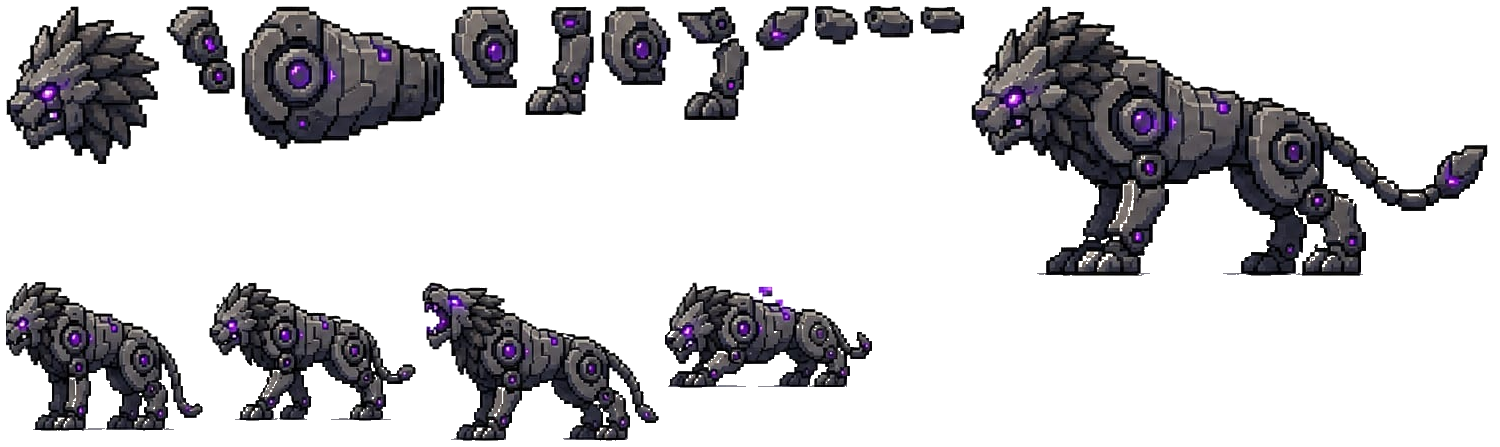
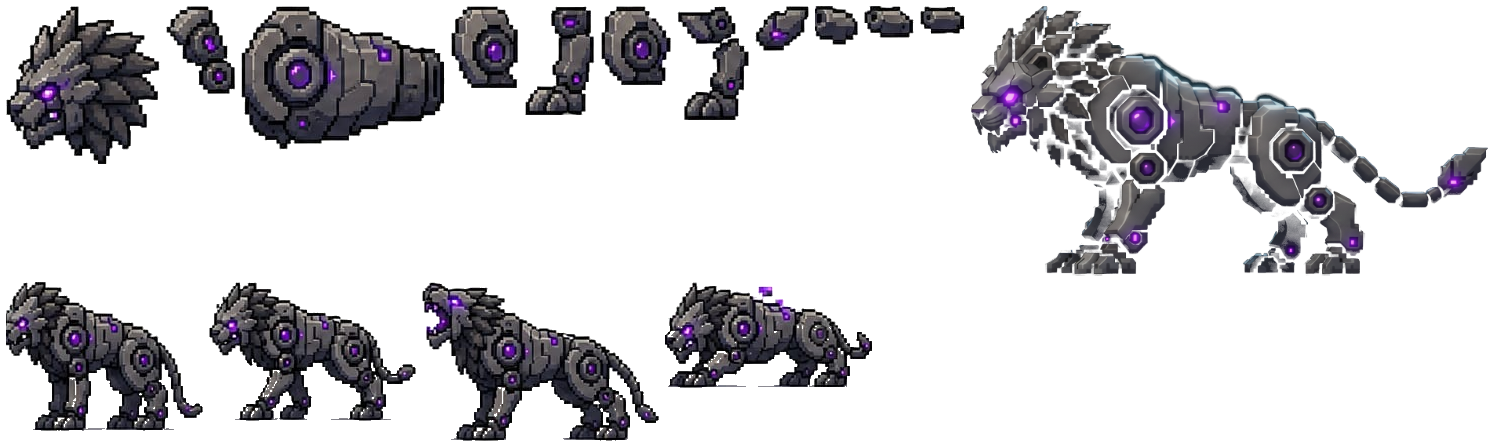
NULLFANG rendered rather than drawn, and a key that works on a dark subject
The restyled figure is in the atlas, composited back into its exact authored
rect by tools/bossparts.cjs — same silhouette, same stance, same disc joints,
same violet marks in the same places, now with bevelled plates, continuous
shading across curves, seam occlusion and a rim light along the spine.

KEYING BY BRIGHTNESS DOES NOT WORK ON A DARK SUBJECT, and that is most of them.
NULLFANG is gunmetal on black; its darkest plates sit in the same luminance
range as the backdrop, so a global threshold turned the lion into a ghost —
every mid-tone panel half-dissolved and the bright rim light left floating in
the air. The backdrop is not "the dark pixels", it is "the dark pixels CONNECTED
TO THE EDGE", so it is flood-filled inward from the border and only what the
fill reaches is removed. A dark panel enclosed by the silhouette is never
reached and survives at full opacity. That fix is what makes the pipeline usable
on the other five guardians, all of which are darker than they are bright.

Changed region(s): [[0.644, 0.0, 1.0, 0.6398]]

diff --git a/index.html b/index.html
@@ -225,7 +225,7 @@
 })();
 </script>
 
-<script>window.BUILD_ID="msrb8r2t";window.GAME_LOCK="robo";window.MUS_FILES={"ambient_observing_the_star":"assets/music/ambient_observing_the_star.ogg","epic_combat":"assets/music/epic_combat.ogg","mus_archives":"assets/music/mus_archives.m4a","mus_boss":"assets/music/mus_boss.m4a","mus_cache":"assets/music/mus_cache.m4a","mus_conduits":"assets/music/mus_conduits.m4a","mus_ending":"assets/music/mus_ending.m4a","mus_foundry":"assets/music/mus_foundry.m4a","mus_furnace":"assets/music/mus_furnace.m4a","mus_glaciere":"assets/music/mus_glaciere.m4a","mus_intro":"assets/music/mus_intro.m4a","mus_meadows":"assets/music/mus_meadows.m4a","mus_mother":"assets/music/mus_mother.m4a","mus_nest":"assets/music/mus_nest.m4a","mus_nullfang":"assets/music/mus_nullfang.m4a","mus_prism":"assets/music/mus_prism.m4a","mus_talonhost":"assets/music/mus_talonhost.m4a","mus_title":"assets/music/mus_title.m4a"};window.VID_FILES={"end_atlas":"assets/video/end_atlas.mp4","end_brood":"assets/video/end_brood.mp4","end_close":"assets/video/end_close.mp4","end_folk":"assets/video/end_folk.mp4","end_glitch":"assets/video/end_glitch.mp4","end_mother":"assets/video/end_mother.mp4","end_open":"assets/video/end_open.mp4","end_prism":"assets/video/end_prism.mp4","end_zero":"assets/video/end_zero.mp4","intro1":"assets/video/intro1.mp4","intro2":"assets/video/intro2.mp4","intro3":"assets/video/intro3.mp4","intro4":"assets/video/intro4.mp4","intro5":"assets/video/intro5.mp4","intro6":"assets/video/intro6.mp4","intro7":"assets/video/intro7.mp4","intro8":"assets/video/intro8.mp4","purify_atlas":"assets/video/purify_atlas.mp4","purify_brood":"assets/video/purify_brood.mp4","purify_glitch":"assets/video/purify_glitch.mp4","purify_prism":"assets/video/purify_prism.mp4","purify_zero":"assets/video/purify_zero.mp4"};window.VID_ALT={"end_atlas":"assets/video/end_atlas.webm","end_brood":"assets/video/end_brood.webm","end_close":"assets/video/end_close.webm","end_folk":"assets/video/end_folk.webm","end_glitch":"assets/video/end_glitch.webm","end_mother":"assets/video/end_mother.webm","end_open":"assets/video/end_open.webm","end_prism":"assets/video/end_prism.webm","end_zero":"assets/video/end_zero.webm","intro1":"assets/video/intro1.webm","intro2":"assets/video/intro2.webm","intro3":"assets/video/intro3.webm","intro4":"assets/video/intro4.webm","intro5":"assets/video/intro5.webm","intro6":"assets/video/intro6.webm","intro7":"assets/video/intro7.webm","intro8":"assets/video/intro8.webm","purify_atlas":"assets/video/purify_atlas.webm","purify_brood":"assets/video/purify_brood.webm","purify_glitch":"assets/video/purify_glitch.webm","purify_prism":"assets/video/purify_prism.webm","purify_zero":"assets/video/purify_zero.webm"};window.VOX_FILES={"lumen0":"assets/vox/lumen0.ogg","lumen1":"assets/vox/lumen1.ogg","lumen2":"assets/vox/lumen2.ogg","mono0":"assets/vox/mono0.ogg","mono1":"assets/vox/mono1.ogg","mono2":"assets/vox/mono2.ogg","patch0":"assets/vox/patch0.ogg","patch1":"assets/vox/patch1.ogg","patch2":"assets/vox/patch2.ogg","ratchet0":"assets/vox/ratchet0.ogg","ratchet1":"assets/vox/ratchet1.ogg","sage0":"assets/vox/sage0.ogg","sage1":"assets/vox/sage1.ogg","sage2":"assets/vox/sage2.ogg","servo0":"assets/vox/servo0.ogg","servo1":"assets/vox/servo1.ogg","servo2":"assets/vox/servo2.ogg","servo3":"assets/vox/servo3.ogg"}</script>
+<script>window.BUILD_ID="msrbj6r2";window.GAME_LOCK="robo";window.MUS_FILES={"ambient_observing_the_star":"assets/music/ambient_observing_the_star.ogg","epic_combat":"assets/music/epic_combat.ogg","mus_archives":"assets/music/mus_archives.m4a","mus_boss":"assets/music/mus_boss.m4a","mus_cache":"assets/music/mus_cache.m4a","mus_conduits":"assets/music/mus_conduits.m4a","mus_ending":"assets/music/mus_ending.m4a","mus_foundry":"assets/music/mus_foundry.m4a","mus_furnace":"assets/music/mus_furnace.m4a","mus_glaciere":"assets/music/mus_glaciere.m4a","mus_intro":"assets/music/mus_intro.m4a","mus_meadows":"assets/music/mus_meadows.m4a","mus_mother":"assets/music/mus_mother.m4a","mus_nest":"assets/music/mus_nest.m4a","mus_nullfang":"assets/music/mus_nullfang.m4a","mus_prism":"assets/music/mus_prism.m4a","mus_talonhost":"assets/music/mus_talonhost.m4a","mus_title":"assets/music/mus_title.m4a"};window.VID_FILES={"end_atlas":"assets/video/end_atlas.mp4","end_brood":"assets/video/end_brood.mp4","end_close":"assets/video/end_close.mp4","end_folk":"assets/video/end_folk.mp4","end_glitch":"assets/video/end_glitch.mp4","end_mother":"assets/video/end_mother.mp4","end_open":"assets/video/end_open.mp4","end_prism":"assets/video/end_prism.mp4","end_zero":"assets/video/end_zero.mp4","intro1":"assets/video/intro1.mp4","intro2":"assets/video/intro2.mp4","intro3":"assets/video/intro3.mp4","intro4":"assets/video/intro4.mp4","intro5":"assets/video/intro5.mp4","intro6":"assets/video/intro6.mp4","intro7":"assets/video/intro7.mp4","intro8":"assets/video/intro8.mp4","purify_atlas":"assets/video/purify_atlas.mp4","purify_brood":"assets/video/purify_brood.mp4","purify_glitch":"assets/video/purify_glitch.mp4","purify_prism":"assets/video/purify_prism.mp4","purify_zero":"assets/video/purify_zero.mp4"};window.VID_ALT={"end_atlas":"assets/video/end_atlas.webm","end_brood":"assets/video/end_brood.webm","end_close":"assets/video/end_close.webm","end_folk":"assets/video/end_folk.webm","end_glitch":"assets/video/end_glitch.webm","end_mother":"assets/video/end_mother.webm","end_open":"assets/video/end_open.webm","end_prism":"assets/video/end_prism.webm","end_zero":"assets/video/end_zero.webm","intro1":"assets/video/intro1.webm","intro2":"assets/video/intro2.webm","intro3":"assets/video/intro3.webm","intro4":"assets/video/intro4.webm","intro5":"assets/video/intro5.webm","intro6":"assets/video/intro6.webm","intro7":"assets/video/intro7.webm","intro8":"assets/video/intro8.webm","purify_atlas":"assets/video/purify_atlas.webm","purify_brood":"assets/video/purify_brood.webm","purify_glitch":"assets/video/purify_glitch.webm","purify_prism":"assets/video/purify_prism.webm","purify_zero":"assets/video/purify_zero.webm"};window.VOX_FILES={"lumen0":"assets/vox/lumen0.ogg","lumen1":"assets/vox/lumen1.ogg","lumen2":"assets/vox/lumen2.ogg","mono0":"assets/vox/mono0.ogg","mono1":"assets/vox/mono1.ogg","mono2":"assets/vox/mono2.ogg","patch0":"assets/vox/patch0.ogg","patch1":"assets/vox/patch1.ogg","patch2":"assets/vox/patch2.ogg","ratchet0":"assets/vox/ratchet0.ogg","ratchet1":"assets/vox/ratchet1.ogg","sage0":"assets/vox/sage0.ogg","sage1":"assets/vox/sage1.ogg","sage2":"assets/vox/sage2.ogg","servo0":"assets/vox/servo0.ogg","servo1":"assets/vox/servo1.ogg","servo2":"assets/vox/servo2.ogg","servo3":"assets/vox/servo3.ogg"}</script>
 <script>
 // THE FIRST BOSS — virus-infected robot beast, and its whelps.
 //

diff --git a/odyssey.html b/odyssey.html
@@ -225,7 +225,7 @@
 })();
 </script>
 
-<script>window.BUILD_ID="msrb8r2t";window.GAME_LOCK="hero";window.MUS_FILES={"ambient_observing_the_star":"assets/music/ambient_observing_the_star.ogg","epic_combat":"assets/music/epic_combat.ogg","mus_archives":"assets/music/mus_archives.m4a","mus_boss":"assets/music/mus_boss.m4a","mus_cache":"assets/music/mus_cache.m4a","mus_conduits":"assets/music/mus_conduits.m4a","mus_ending":"assets/music/mus_ending.m4a","mus_foundry":"assets/music/mus_foundry.m4a","mus_furnace":"assets/music/mus_furnace.m4a","mus_glaciere":"assets/music/mus_glaciere.m4a","mus_intro":"assets/music/mus_intro.m4a","mus_meadows":"assets/music/mus_meadows.m4a","mus_mother":"assets/music/mus_mother.m4a","mus_nest":"assets/music/mus_nest.m4a","mus_nullfang":"assets/music/mus_nullfang.m4a","mus_prism":"assets/music/mus_prism.m4a","mus_talonhost":"assets/music/mus_talonhost.m4a","mus_title":"assets/music/mus_title.m4a"};window.VID_FILES={"end_atlas":"assets/video/end_atlas.mp4","end_brood":"assets/video/end_brood.mp4","end_close":"assets/video/end_close.mp4","end_folk":"assets/video/end_folk.mp4","end_glitch":"assets/video/end_glitch.mp4","end_mother":"assets/video/end_mother.mp4","end_open":"assets/video/end_open.mp4","end_prism":"assets/video/end_prism.mp4","end_zero":"assets/video/end_zero.mp4","intro1":"assets/video/intro1.mp4","intro2":"assets/video/intro2.mp4","intro3":"assets/video/intro3.mp4","intro4":"assets/video/intro4.mp4","intro5":"assets/video/intro5.mp4","intro6":"assets/video/intro6.mp4","intro7":"assets/video/intro7.mp4","intro8":"assets/video/intro8.mp4","purify_atlas":"assets/video/purify_atlas.mp4","purify_brood":"assets/video/purify_brood.mp4","purify_glitch":"assets/video/purify_glitch.mp4","purify_prism":"assets/video/purify_prism.mp4","purify_zero":"assets/video/purify_zero.mp4"};window.VID_ALT={"end_atlas":"assets/video/end_atlas.webm","end_brood":"assets/video/end_brood.webm","end_close":"assets/video/end_close.webm","end_folk":"assets/video/end_folk.webm","end_glitch":"assets/video/end_glitch.webm","end_mother":"assets/video/end_mother.webm","end_open":"assets/video/end_open.webm","end_prism":"assets/video/end_prism.webm","end_zero":"assets/video/end_zero.webm","intro1":"assets/video/intro1.webm","intro2":"assets/video/intro2.webm","intro3":"assets/video/intro3.webm","intro4":"assets/video/intro4.webm","intro5":"assets/video/intro5.webm","intro6":"assets/video/intro6.webm","intro7":"assets/video/intro7.webm","intro8":"assets/video/intro8.webm","purify_atlas":"assets/video/purify_atlas.webm","purify_brood":"assets/video/purify_brood.webm","purify_glitch":"assets/video/purify_glitch.webm","purify_prism":"assets/video/purify_prism.webm","purify_zero":"assets/video/purify_zero.webm"};window.VOX_FILES={"lumen0":"assets/vox/lumen0.ogg","lumen1":"assets/vox/lumen1.ogg","lumen2":"assets/vox/lumen2.ogg","mono0":"assets/vox/mono0.ogg","mono1":"assets/vox/mono1.ogg","mono2":"assets/vox/mono2.ogg","patch0":"assets/vox/patch0.ogg","patch1":"assets/vox/patch1.ogg","patch2":"assets/vox/patch2.ogg","ratchet0":"assets/vox/ratchet0.ogg","ratchet1":"assets/vox/ratchet1.ogg","sage0":"assets/vox/sage0.ogg","sage1":"assets/vox/sage1.ogg","sage2":"assets/vox/sage2.ogg","servo0":"assets/vox/servo0.ogg","servo1":"assets/vox/servo1.ogg","servo2":"assets/vox/servo2.ogg","servo3":"assets/vox/servo3.ogg"}</script>
+<script>window.BUILD_ID="msrbj6r2";window.GAME_LOCK="hero";window.MUS_FILES={"ambient_observing_the_star":"assets/music/ambient_observing_the_star.ogg","epic_combat":"assets/music/epic_combat.ogg","mus_archives":"assets/music/mus_archives.m4a","mus_boss":"assets/music/mus_boss.m4a","mus_cache":"assets/music/mus_cache.m4a","mus_conduits":"assets/music/mus_conduits.m4a","mus_ending":"assets/music/mus_ending.m4a","mus_foundry":"assets/music/mus_foundry.m4a","mus_furnace":"assets/music/mus_furnace.m4a","mus_glaciere":"assets/music/mus_glaciere.m4a","mus_intro":"assets/music/mus_intro.m4a","mus_meadows":"assets/music/mus_meadows.m4a","mus_mother":"assets/music/mus_mother.m4a","mus_nest":"assets/music/mus_nest.m4a","mus_nullfang":"assets/music/mus_nullfang.m4a","mus_prism":"assets/music/mus_prism.m4a","mus_talonhost":"assets/music/mus_talonhost.m4a","mus_title":"assets/music/mus_title.m4a"};window.VID_FILES={"end_atlas":"assets/video/end_atlas.mp4","end_brood":"assets/video/end_brood.mp4","end_close":"assets/video/end_close.mp4","end_folk":"assets/video/end_folk.mp4","end_glitch":"assets/video/end_glitch.mp4","end_mother":"assets/video/end_mother.mp4","end_open":"assets/video/end_open.mp4","end_prism":"assets/video/end_prism.mp4","end_zero":"assets/video/end_zero.mp4","intro1":"assets/video/intro1.mp4","intro2":"assets/video/intro2.mp4","intro3":"assets/video/intro3.mp4","intro4":"assets/video/intro4.mp4","intro5":"assets/video/intro5.mp4","intro6":"assets/video/intro6.mp4","intro7":"assets/video/intro7.mp4","intro8":"assets/video/intro8.mp4","purify_atlas":"assets/video/purify_atlas.mp4","purify_brood":"assets/video/purify_brood.mp4","purify_glitch":"assets/video/purify_glitch.mp4","purify_prism":"assets/video/purify_prism.mp4","purify_zero":"assets/video/purify_zero.mp4"};window.VID_ALT={"end_atlas":"assets/video/end_atlas.webm","end_brood":"assets/video/end_brood.webm","end_close":"assets/video/end_close.webm","end_folk":"assets/video/end_folk.webm","end_glitch":"assets/video/end_glitch.webm","end_mother":"assets/video/end_mother.webm","end_open":"assets/video/end_open.webm","end_prism":"assets/video/end_prism.webm","end_zero":"assets/video/end_zero.webm","intro1":"assets/video/intro1.webm","intro2":"assets/video/intro2.webm","intro3":"assets/video/intro3.webm","intro4":"assets/video/intro4.webm","intro5":"assets/video/intro5.webm","intro6":"assets/video/intro6.webm","intro7":"assets/video/intro7.webm","intro8":"assets/video/intro8.webm","purify_atlas":"assets/video/purify_atlas.webm","purify_brood":"assets/video/purify_brood.webm","purify_glitch":"assets/video/purify_glitch.webm","purify_prism":"assets/video/purify_prism.webm","purify_zero":"assets/video/purify_zero.webm"};window.VOX_FILES={"lumen0":"assets/vox/lumen0.ogg","lumen1":"assets/vox/lumen1.ogg","lumen2":"assets/vox/lumen2.ogg","mono0":"assets/vox/mono0.ogg","mono1":"assets/vox/mono1.ogg","mono2":"assets/vox/mono2.ogg","patch0":"assets/vox/patch0.ogg","patch1":"assets/vox/patch1.ogg","patch2":"assets/vox/patch2.ogg","ratchet0":"assets/vox/ratchet0.ogg","ratchet1":"assets/vox/ratchet1.ogg","sage0":"assets/vox/sage0.ogg","sage1":"assets/vox/sage1.ogg","sage2":"assets/vox/sage2.ogg","servo0":"assets/vox/servo0.ogg","servo1":"assets/vox/servo1.ogg","servo2":"assets/vox/servo2.ogg","servo3":"assets/vox/servo3.ogg"}</script>
 <script>
 // THE FIRST BOSS — virus-infected robot beast, and its whelps.
 //
